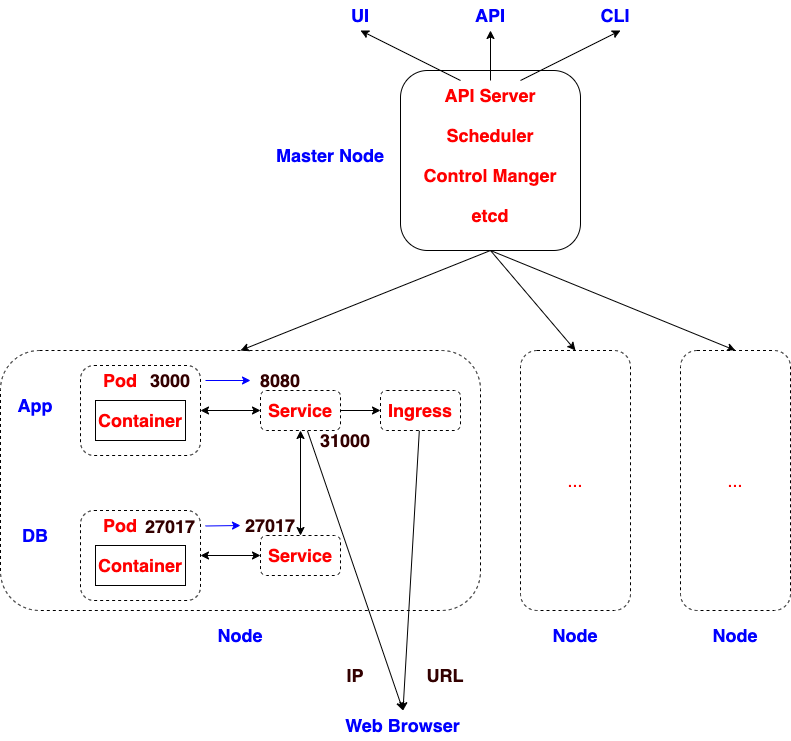
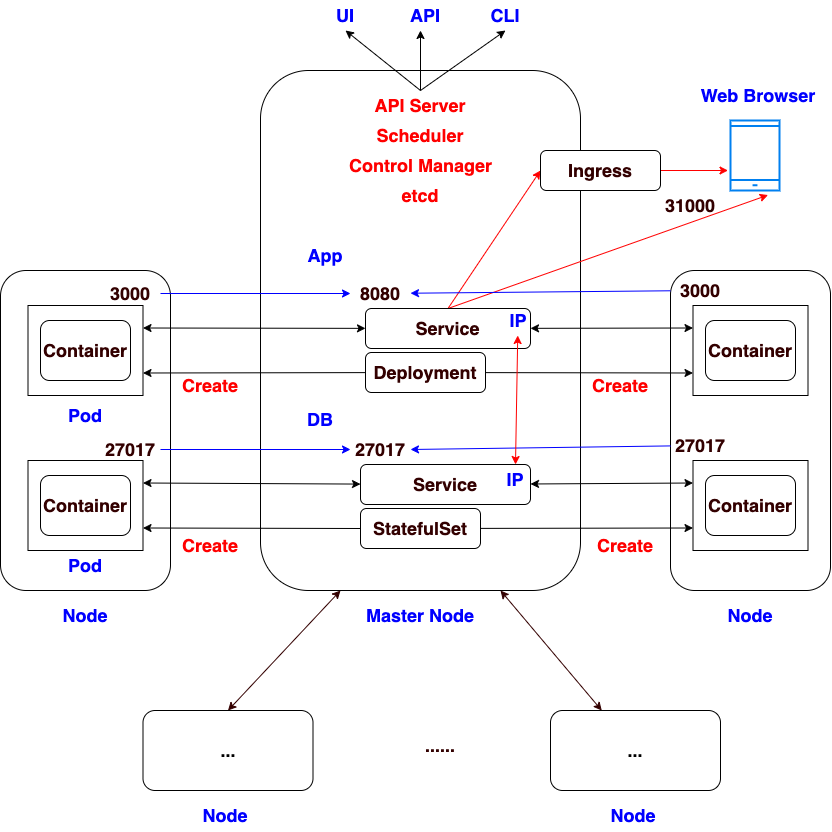
K8s Nana

diff --git a/Kubernetes/kubectl.htm b/Kubernetes/kubectl.htm
@@ -15,10 +15,120 @@
 		<div class = "title">
 			kubectl
 		</div>
-        <div class = "subtitle">Access Pod</div>
+        <div class = "subtitle">get</div>
 		<div class = "block">
 		<pre class = "prettyprint linenums">
+# get status of nodes
+kubectl get nodes
+
+# get pods
+kubectl get pods
+
+# get services
+kubectl get services
+kubectl get svc
+
+# get deployments
+kubectl get deployment
+kubectl get deploy
+
+# get pods, services, deployments, statefulsets, replicasets
+kubectl get all
+
+# get configuration
+kubectl get deployment [deploymentName] -o yaml
+        </pre>
+        </div>
+        <div class = "subtitle">create</div>
+		<div class = "block">
+		<pre class = "prettyprint linenums">
+# create pod and replicaset
+# kubectl create deployment [Name] --image=image
+# deployment -&gt; replicaset -&gt; pod -&gt; container
+kubectl create deployment redis-deploy --image=redis:alpine # by default, pull images from docker.io
+
+# create component from files
+# kubectl create -f [fileName]
+kubectl create -f k8s/redis-deployment.yaml
+# kubectl create -f [directoryName]
+kubectl create -f k8s
+        </pre>
+        </div>
+        <div class = "subtitle">edit</div>
+		<div class = "block">
+		<pre class = "prettyprint linenums">
+# edit deployment
+# create an automatically generated compose file, edit, and save
+# termiante the old pod and create a new pod using the editted deployment
+kubectl edit deployment redis-deploy
+        </pre>
+        </div>
+        <div class = "subtitle">logs</div>
+		<div class = "block">
+		<pre class = "prettyprint linenums">
+kubectl logs [podName]
+        </pre>
+        </div>
+        <div class = "subtitle">describe</div>
+		<div class = "block">
+		<pre class = "prettyprint linenums">
+# describe pod
+kubectl describe pod [podName]
+
+# describe service
+kubectl describe service [serviceName]
+        </pre>
+        </div>
+        <div class = "subtitle">delete</div>
+		<div class = "block">
+		<pre class = "prettyprint linenums">
+# delete deployment
+kubectl delete deployment [deploymentName]
+kubectl delete deploy [deploymentName]
+
+# delete service
+kubectl delete service [serviceName]
+kubectl delete svc [serviceName]
+
+# delete from configuration files
+# kubectl delete -f [fileName]
+kubectl delete -f k8s/redis-deployment.yaml
+#kubectl delete -f [directoryName]
+kubectl delete -f k8s
+        </pre>
+        </div>
+        <div class = "subtitle">exec</div>
+		<div class = "block">
+		<pre class = "prettyprint linenums">
+# access container
 kubectl exec -it [podName] sh
+        </pre>
+        </div>
+        <div class = "subtitle">apply</div>
+		<div class = "block">
+		<pre class = "prettyprint linenums">
+# create or update components
+# kubectl apply -f [fileName]
+kubectl apply -f k8s/redis-deployment.yaml
+
+# kubectl apply -f [directoryName]
+kubectl apply -f k8s
+        </pre>
+        </div>
+        <div class = "subtitle">version</div>
+		<div class = "block">
+		<pre class = "prettyprint linenums">
+kubectl version
+        </pre>
+        </div>
+        <div class = "subtitle">config</div>
+		<div class = "block">
+		<pre class = "prettyprint linenums">
+# get clusters
+kubectl config get-clusters
+
+# get current cluster
+kubectl config current-context
         </pre>
         </div>
         <div class = "subtitle">Reference</div>

diff --git a/Kubernetes/Intro.htm b/Kubernetes/Intro.htm
@@ -30,7 +30,7 @@
                                 <ul>
                                     <li>4 processes run on every master node
                                         <ul>
-                                            <li><span>API server</span>, entry point to K8s cluster</li>
+                                            <li><span>API server</span>, entry point to a k8s cluster, gatekeeper for authentication</li>
                                             <li><span>Controll manager</span>, detect cluster state changes</</li>
                                             <li><span>Scheduler</span>, decide which node will host a new pod</li>
                                             <li><span>etcd</span>, cluster brain, backing store</li>
@@ -47,11 +47,11 @@
                                     <li>3 processes must be installed on each worker node
                                         <ul>
                                             <li><span>kubelet</span>, interacts with both container and node, starts the pod with a container inside</li>
-                                            <li><span>kube proxy</span>, forwards the request</li>
+                                            <li><span>kube proxy</span>, forwards the request from service to pod</li>
                                             <li><span>Container runtime</span>, such as Docker</li>
                                         </ul>
                                     </li>
-                                    <li>Each node has multiple pods</li>
+                                    <li>Each node can have multiple pods</li>
                                     <li>Each pod can have multiple containers, though usually each pod has one container</li>
                                     <li>Higher workload</li>
                                     <li>Much bigger and more resources</li>
@@ -83,6 +83,13 @@
                             <li>Translate a URL to ip/port pair, the request goes to ingress, then is forwarded to service</li>
                         </ul>
                     </li>
+                    <li><span>Deployment and StatefulSet</span>
+                        <ul>
+                            <li>Blueprint for creating pods</li>
+                            <li>Deployment for stateless apps</li>
+                            <li>StatefullSet for stateful apps or database. Not easy on k8s, database is often hosted outside of k8s cluster</li>
+                        </ul>
+                    </li>
                     <li><span>ConfigMap</span>
                         <ul>
                             <li>External configuration of your application</li>
@@ -107,6 +114,7 @@
         </div>
         <div class = "subtitle">Reference</div>
 		<div class = "block">
+            <li><a href = "https://gitlab.com/nanuchi/youtube-tutorial-series/">Nana's Yourtube Tutorial</a></li>
             <li><a href = "https://kubernetes.io/docs/home/">Documentation</a></li>
             <li><a href = "https://www.youtube.com/watch?v=s_o8dwzRlu4">Kubernetes Crash Course for Absolute Beginners</a></li>
             <li><a href = "https://www.youtube.com/watch?v=umXEmn3cMWY&t=5s">Kubernetes Architecture explained</a></li>

diff --git a/Kubernetes/Compose.htm b/Kubernetes/Compose.htm
@@ -15,14 +15,77 @@
 		<div class = "title">
 			Compose
 		</div>
+		<div class = "block">
+            <li>1. <span>metadata</span></li>
+            <li>2. <span>spec</span>
+                <ul>
+                    <li>desired status</li>
+                </ul>
+            </li>
+            <li>3. <span>status</span>
+                <ul>
+                    <li>actual status</li>
+                    <li>automatically generated and added by kubernetes</li>
+                    <li>Etcd holds the current status of kubernetes components</li>
+                </ul>
+            </li>
+        </div>
+        <div class = "block">
+            <p style = "text-align:center;"><img src = "img/k8s_10.png" width = "80%"></p>
+		</div>
         <div class = "subtitle">Deployment</div>
 		<div class = "block">
 		<pre class = "prettyprint linenums">
+apiVersion: apps/v1
+kind: Deployment # type
+metadata:
+  name: nginx-deployment # deployment name
+  labels:
+    app: nginx
+spec: # specification for deployment
+  replicas: 1 # number of replicas
+  selector:
+    matchLabels:
+      app: nginx
+  template: # specification for pods
+    metadata:
+      labels:
+        app: nginx
+    spec:
+      containers:
+      - name: nginx
+        image: nginx:1.16
+        ports:
+        - containerPort: 8080
         </pre>
         </div>
         <div class = "subtitle">Service</div>
 		<div class = "block">
 		<pre class = "prettyprint linenums">
+apiVersion: v1
+kind: Service
+metadata:
+  name: nginx-service
+spec:
+  selector:
+    app: nginx
+  ports:
+    - protocol: TCP
+      port: 80 # service port
+      targetPort: 8080 # container port
+        </pre>
+        </div>
+        <div class = "subtitle">Secret</div>
+		<div class = "block">
+		<pre class = "prettyprint linenums">
+apiVersion: v1
+kind: Secret
+metadata:
+  name: mongo-secret
+type: Opaque
+data:
+  mongo-user: bW9uZ291c2Vy
+  mongo-password: bW9uZ29wYXNzd29yZA==
         </pre>
         </div>
         <div class = "subtitle">Reference</div>

diff --git a/Kubernetes/Mongo.htm b/Kubernetes/Mongo.htm
@@ -1,0 +1,26 @@
+<!DOCTYPE html>
+<html>
+	<head>
+		<title>Kubernetes</title>
+		<link rel="stylesheet" href="../css/atelier-sulphurpool-light.css" type="text/css">
+		<script src="../js/google-code-prettify/run_prettify.js?autoload=true&amp;lang=css"></script>
+		<style>
+			div.title {color: navy; font-weight: bold; width: 80%; font-size: 32px; text-align: center; position: relative; margin: auto;}
+			div.subtitle {color: navy; font-weight: bold; width: 80%; font-size: 24px; text-align: position: relative; margin: auto;}
+			div.block {color: navy; font-weight: bold; width: 80%; border-style: solid; padding: 5px; position: relative; margin: 10px auto; border-radius: 5px;}
+			span {color: red; font-weight: bold;}
+		</style>
+	</head>
+	<body>
+		<div class = "title">
+			Mongo DB
+		</div>
+        <div class = "block">
+            <p style = "text-align:center;"><img src = "img/K8s_6.png" width = "30%"></p>
+		</div>
+		<div class = "block">
+		<pre class = "prettyprint linenums">
+        </pre>
+        </div>
+    </body>
+</html>

diff --git a/Kubernetes/Minikube.htm b/Kubernetes/Minikube.htm
@@ -15,6 +15,10 @@
 		<div class = "title">
 			Minikube
 		</div>
+        <div class = "subtitle">Architecture</div>
+        <div class = "block">
+            <p style = "text-align:center;"><img src = "img/k8s_9.png" width = "30%"></p>
+		</div>
         <div class = "subtitle">Start Minikube</div>
 		<div class = "block">
             <li>--kubernetes-version
@@ -38,10 +42,22 @@
 minikube start
         </pre>
         </div>
+        <div class = "subtitle">Minikube Status</div>
+		<div class = "block">
+		<pre class = "prettyprint linenums">
+minikube status
+        </pre>
+        </div>
         <div class = "subtitle">Kubernetes Dashboard</div>
 		<div class = "block">
 		<pre class = "prettyprint linenums">
 minikube dashboard
+        </pre>
+        </div>
+        <div class = "subtitle">Close Minkube</div>
+		<div class = "block">
+		<pre class = "prettyprint linenums">
+minikube stop
         </pre>
         </div>
         <div class = "subtitle">Close Minkube</div>
